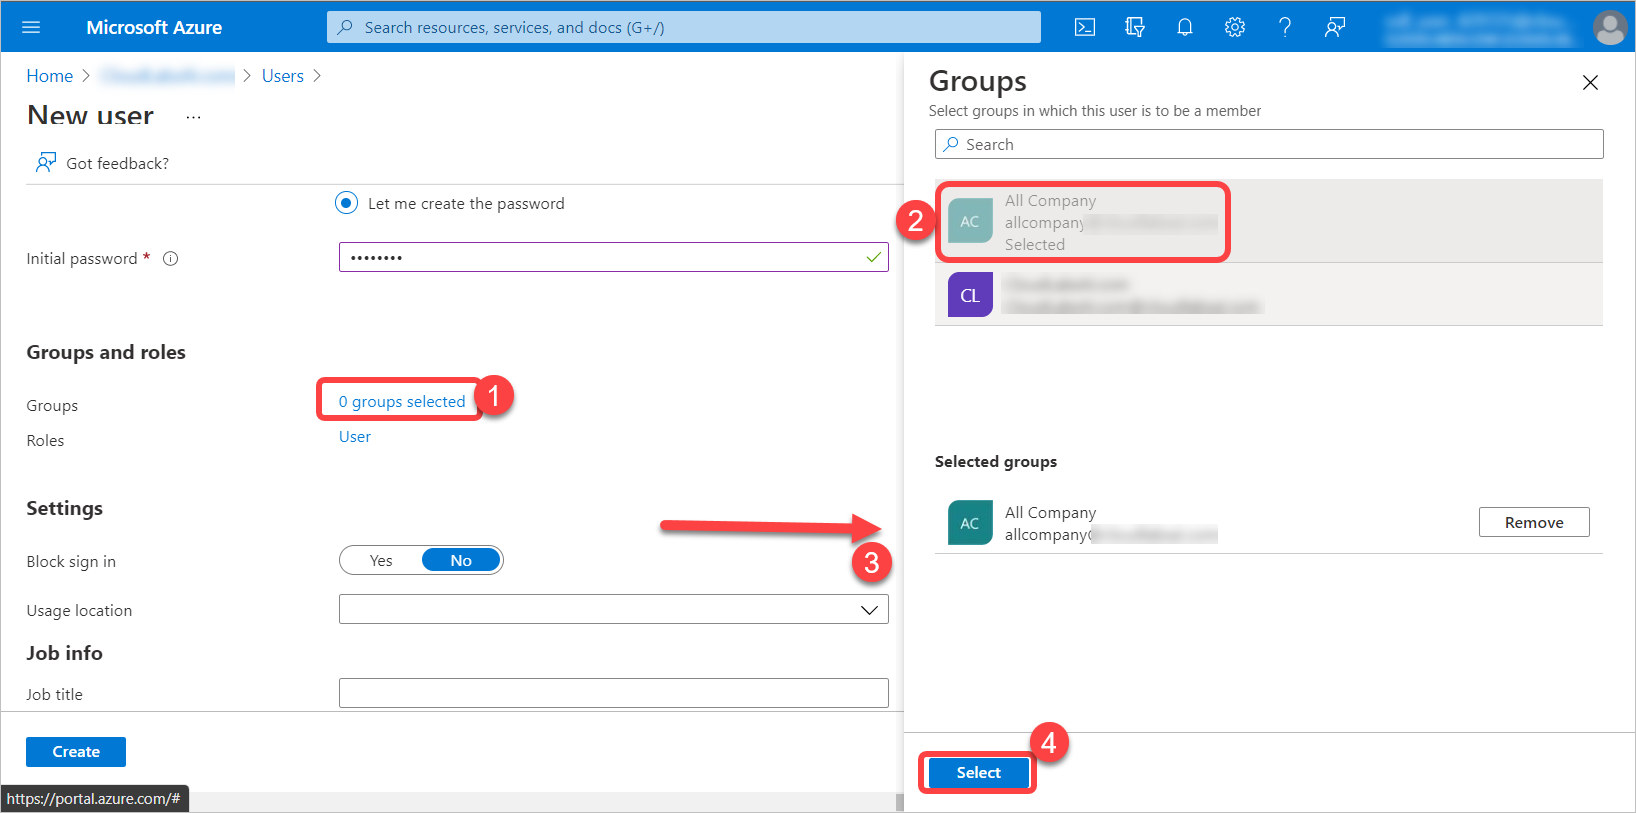
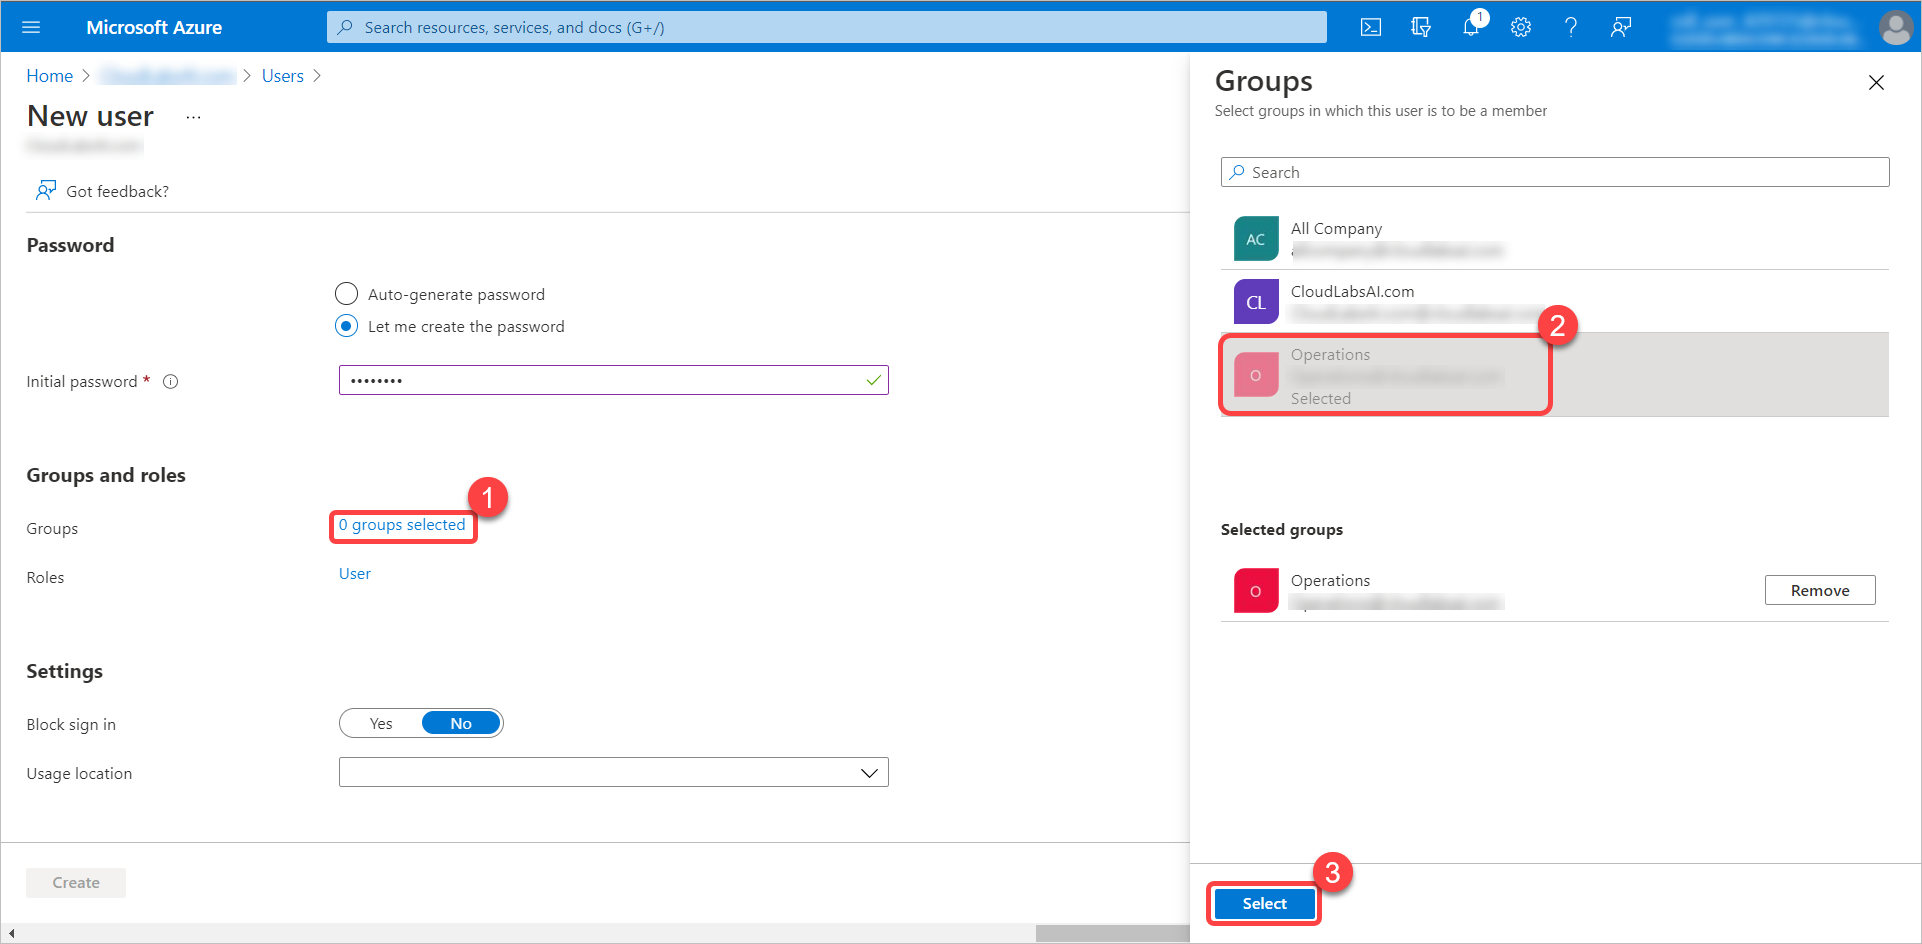
Lab 1 SS added

diff --git a/Instructions/Labs/LAB_01_explore_azure_ad.md b/Instructions/Labs/LAB_01_explore_azure_ad.md
@@ -25,13 +25,11 @@ In this lab, you will access Azure Active Directory.  Additionally, you will cre
     1. Enter the admin password which should be provided by your lab hosting provider. Select **Sign in**.
     1. When prompted to stay signed- in, select **Yes**.
 
-
    ![](../Images/home-page.png)
 
 1. From the left navigation pane of the Microsoft 365 admin center, select **Show all**.
 
 1. Under Admin centers, select **Azure Active Directory** (you may need to scroll down).  
-
 
    ![](../Images/aad.png)
 
@@ -55,8 +53,26 @@ In this lab, you will access Azure Active Directory.  Additionally, you will cre
 
    ![](../Images/azure-portal-aad.png)
 
+#### Task 2: Creating a basic group
 
-#### Task 2:  In this task, you’ll learn how to create a new user in Azure Active Directory and explore some of services that can be managed at the user level.
+1. On the Active Directory page, select Groups and then select New group.
+
+   ![](../Images/aad-new-group.png)
+
+1. Populate the **New Group** fields as follows and Select Create
+
+    1. Group type: **Microsoft 365**.
+
+    2. Group name: **Operations**.
+
+    3. Group email address: **Leave Default**.
+
+    4. Group description: **Add an optional description to your group**.
+
+   ![](../Images/aad-group-create.png)
+   
+
+#### Task 3:  In this task, you’ll learn how to create a new user in Azure Active Directory and explore some of services that can be managed at the user level.
 
 1. In Azure Active Directory Overview page, Click on the **Users** blade under the manage section
 
@@ -118,39 +134,51 @@ In this lab, you will access Azure Active Directory.  Additionally, you will cre
 
   ![](../Images/add-review-user.png)
 
-12. The left navigation panel shows the various options that can be configured for the user.  Select **Groups**.  Here you can see additional information about the group.  Verify the Operations group is listed (it may take several minutes for the group assignment to show up).  Note:  you will also see the Contoso group, although we only assigned one group when we created the user.  This is a result of a preconfigured policy, in the tenant, that automatically assigns new users to the Contoso group.
+12. The left navigation panel shows the various options that can be configured for the user.  Select **Groups**.  Here you can see additional information about the group.  Verify the Operations group is listed (it may take several minutes for the group assignment to show up).  Note:  you will also see the another group, although we only assigned one group when we created the user.  This is a result of a preconfigured policy, in the tenant, that automatically assigns new users to the group.
+
+  ![](../Images/aad-group-review.png)
 
 13. From the left navigation panel select **Licenses**.  Notice that there are no license assignments found for this user.  
 
 14. To add a license select **+ Assignments** from the top of the main window.
 
-15. Under Select licenses, select **Office 365 E3** and **Windows 10 Enterprise E3** then select the **Save** button on the bottom of the screen. A notification on the top right corner of the screen should show that license assignments succeeded.
+  ![](../Images/aad-licenses.png)
+
+15. Under Select licenses, select **Office 365 E3** then select the **Save** button on the bottom of the screen. A notification on the top right corner of the screen should show that license assignments succeeded.
+
+  ![](../Images/aad-license-1.png)
 
 16. Select the **X** on the top right of the screen to close the License assignments window.
 
 17. Select the **Refresh icon** at the top of the page to confirm the license assignments.
 
-18. Return to the Contoso Overview Azure Active directory page, by selecting **Contoso** on the top-left of the screen (the bread-crumb), above where it says Sara Perez | Licenses.
+18. Return to the Azure Active Directory Overview page
 
 19. You have successfully created and configured a user in Azure Active Directory.
 
 20.	Sign out from all the browser tabs by clicking on the user icon next to the email address on the top right corner of the screen. Then the close all the browser windows.
 
-#### Task 3:  In this task, you will sign in as Sara Perez, for the first time.
+#### Task 4:  In this task, you will sign in as Sara Perez, for the first time.
 
 1. Open Microsoft Edge.
 
 2. In the address bar enter **login.microsoft.com**.
 
-3. Sign in as **sara@xxxxx.onmicrosoft.com**, (where ZZZZZZ is your unique tenant ID provided by your lab hosting provider).
+3. Sign in as **sara@xxxxx.onmicrosoft.com**, (where xxxxx is your unique tenant ID provided by your lab hosting provider).
 
 4. Enter the temporary password **Naja8996**.
+
+  ![](../Images/login-page.png)
 
 5. You are now prompted to Update your password. In the Current password field, enter **Naja8996**.
 
 6. In the New password field enter, **SC900-Lab**.  In the Confirm your password field enter SC900-Lab, then select Sign in.  Note: As a best practice, a more secure password should be used. This password is chosen, for expediency and only for the purpose of this lab.
 
+  ![](../Images/update-password.png)
+
 7. You should now be successfully signed-in to Microsoft 365.
+
+  ![](../Images/office-365-home.png)
 
 8. **Sign out** from all the browser tabs by clicking on the user icon next to the email address on the top right corner of the screen. Then the close all the browser windows.
 
@@ -158,5 +186,3 @@ In this lab, you will access Azure Active Directory.  Additionally, you will cre
 
 #### Review
 In this lab, you started your initial exploration of Azure AD. Since subscribers to Microsoft 365 are automatically using Azure AD, you found that you access Azure AD features and services through either the Microsoft 365 admin portal or through the Azure portal.  Whichever approach you prefer to get to the same place.  You also walked through the process of creating a new user and the different setting that can be configured, including groups to which the user can be assigned, the availability of roles, and assigning of user licenses..
-
-
